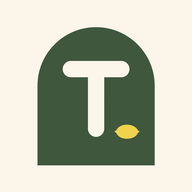
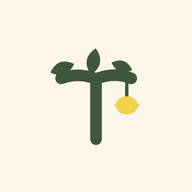
Tavo Web-App 2026-11-09

diff --git a/sw.js b/sw.js
@@ -1,6 +1,6 @@
 // Offline für die Web-Version: App-Dateien aus dem Cache, wenn kein Netz. Fremde Anfragen (Open Food Facts) gehen immer ins Netz.
-const CACHE = 'mahlzahl-v1794238071'
-self.addEventListener('install', (e) => { e.waitUntil(caches.open(CACHE).then((c) => c.addAll(['./', './index.html', './manifest.webmanifest', './icon.svg', './icon-192.png']))); self.skipWaiting() })
+const CACHE = 'mahlzahl-v1794238675'
+self.addEventListener('install', (e) => { e.waitUntil(caches.open(CACHE).then((c) => c.addAll(['./', './index.html', './manifest.webmanifest', './favicon-64.png', './icon-192.png']))); self.skipWaiting() })
 self.addEventListener('activate', (e) => { e.waitUntil(caches.keys().then((ks) => Promise.all(ks.filter((k) => k !== CACHE).map((k) => caches.delete(k))))); self.clients.claim() })
 self.addEventListener('fetch', (e) => {
   const req = e.request

diff --git a/index.html b/index.html
@@ -7,7 +7,7 @@
     <meta name="apple-mobile-web-app-capable" content="yes" />
     <meta name="apple-mobile-web-app-status-bar-style" content="default" />
     <link rel="manifest" href="./manifest.webmanifest" />
-    <link rel="icon" href="./icon.svg" type="image/svg+xml" />
+    <link rel="icon" href="./favicon-64.png" type="image/png" />
     <link rel="apple-touch-icon" href="./icon-180.png" />
     <meta name="description" content="Tavo – Ernährung und Training mit einem Hauch Leichtigkeit. Offline, ohne Abo, ohne Werbung." />
     <title>Tavo</title>
